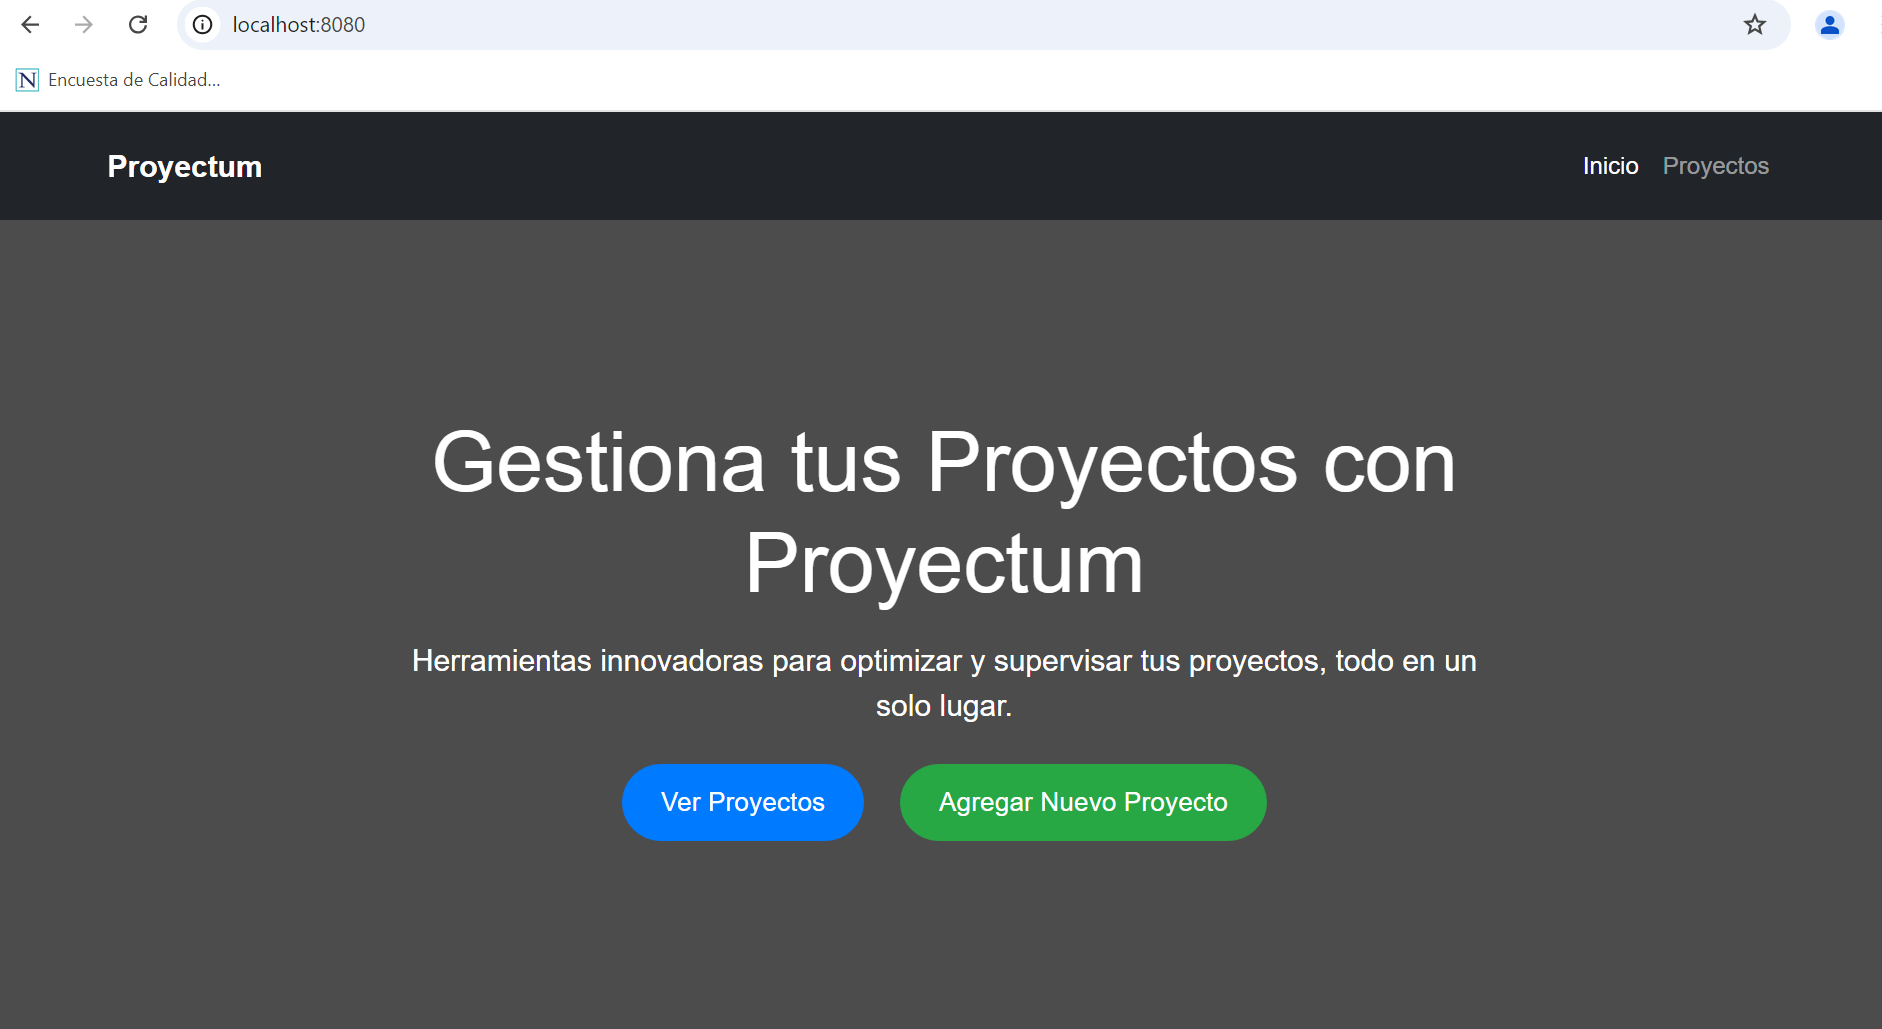
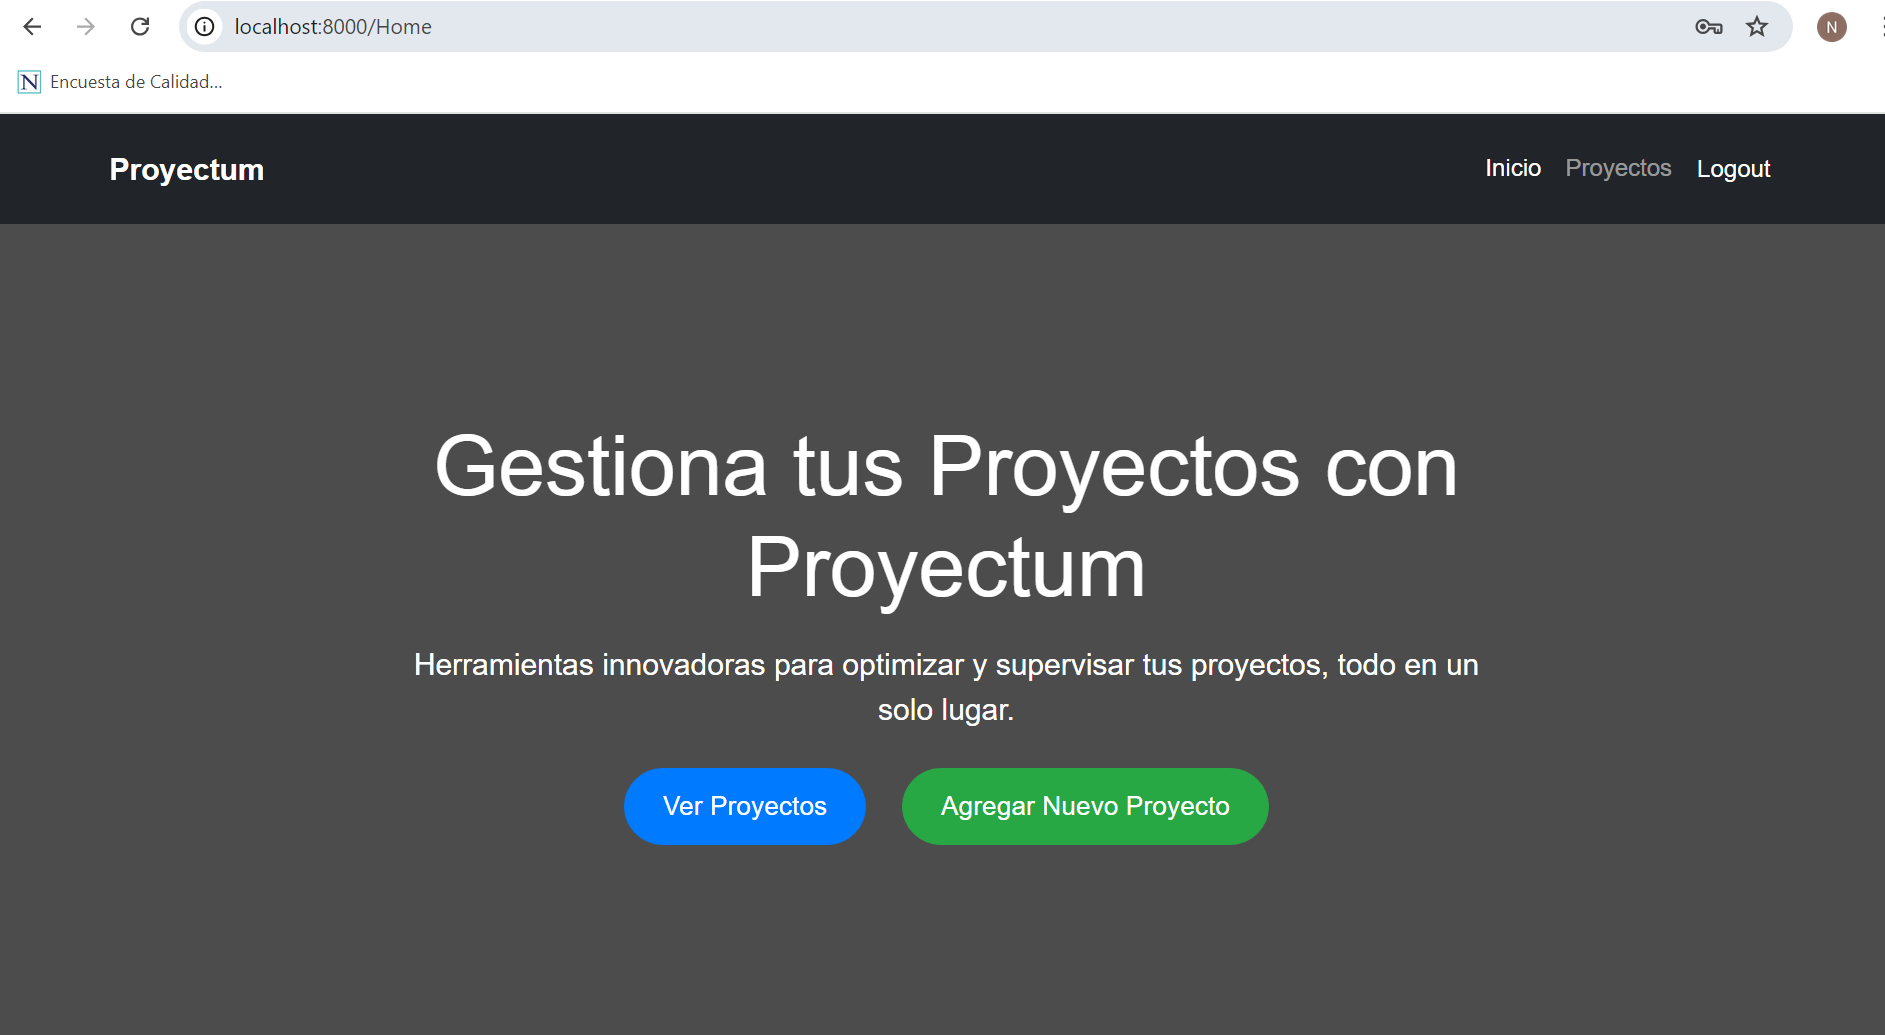
agregar imagen a readme

diff --git a/src/main/java/com/company/spring_boot_crud_app/WebSecurityConfig.java b/src/main/java/com/company/spring_boot_crud_app/WebSecurityConfig.java
@@ -25,7 +25,7 @@ public SecurityFilterChain securityFilterChain(HttpSecurity http) throws Excepti
         )
         .formLogin((form) -> form
             .loginPage("/login")
-            .defaultSuccessUrl("/proyectos", true)
+            .defaultSuccessUrl("/Home", true)
         )
          .logout((logout) -> logout
             .logoutUrl("/logout")
